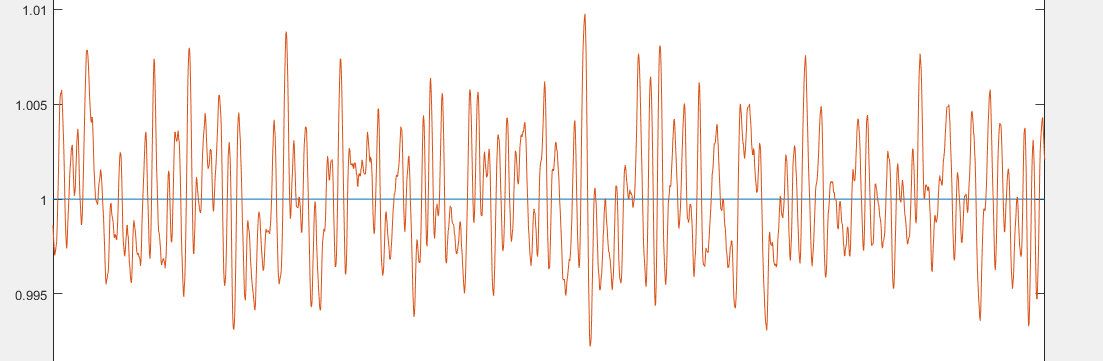
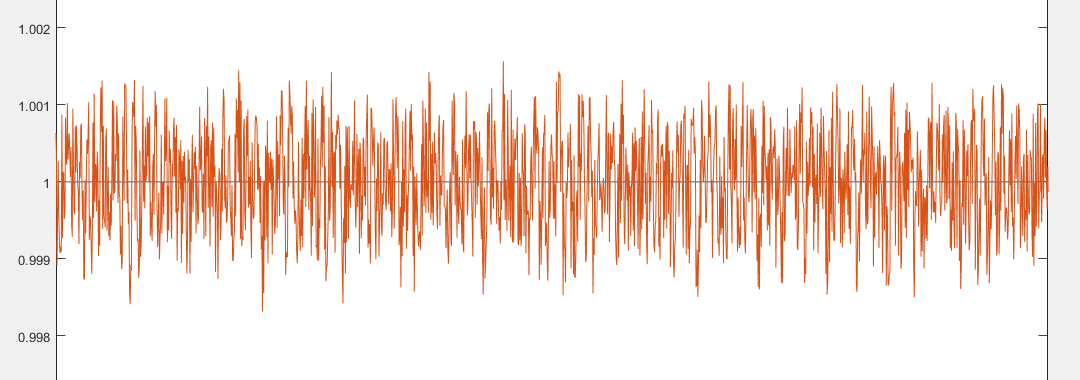
test latex

diff --git a/my_ADRC/adrc.md b/my_ADRC/adrc.md
@@ -195,21 +195,21 @@ x1为跟踪输出，x2为微分输出，h为采样周期
 </div>
 
 ADRC效果很出众吧！
-但其实有隐忧，对比下稳态输出的噪声。
+~~但其实有隐忧，对比下稳态输出的噪声。~~
+~~稳态噪声相差10倍~猜测原因是~~
+* ~~没有积分?~~
+* ~~各种非线性?~~
 
-ADRC:
-
-![](./images/adrc_test_s_e.PNG)
+**我matlab写错了，把噪声传回了传递函数里面重新算了，改了bug后噪声相差没有十倍，抱歉了。修改后的图如下**
 
 PID:
 
 ![](./images/pid_test_s_e.PNG)
 
-稳态噪声相差10倍~猜测原因是
-* 没有积分?
-* 各种非线性?
+ADRC:
 
-所以ADRC没这么简单啦。这只是一片科普文。
+![](./images/adrc_test_s_e.PNG)
+
 
 以上。
 
